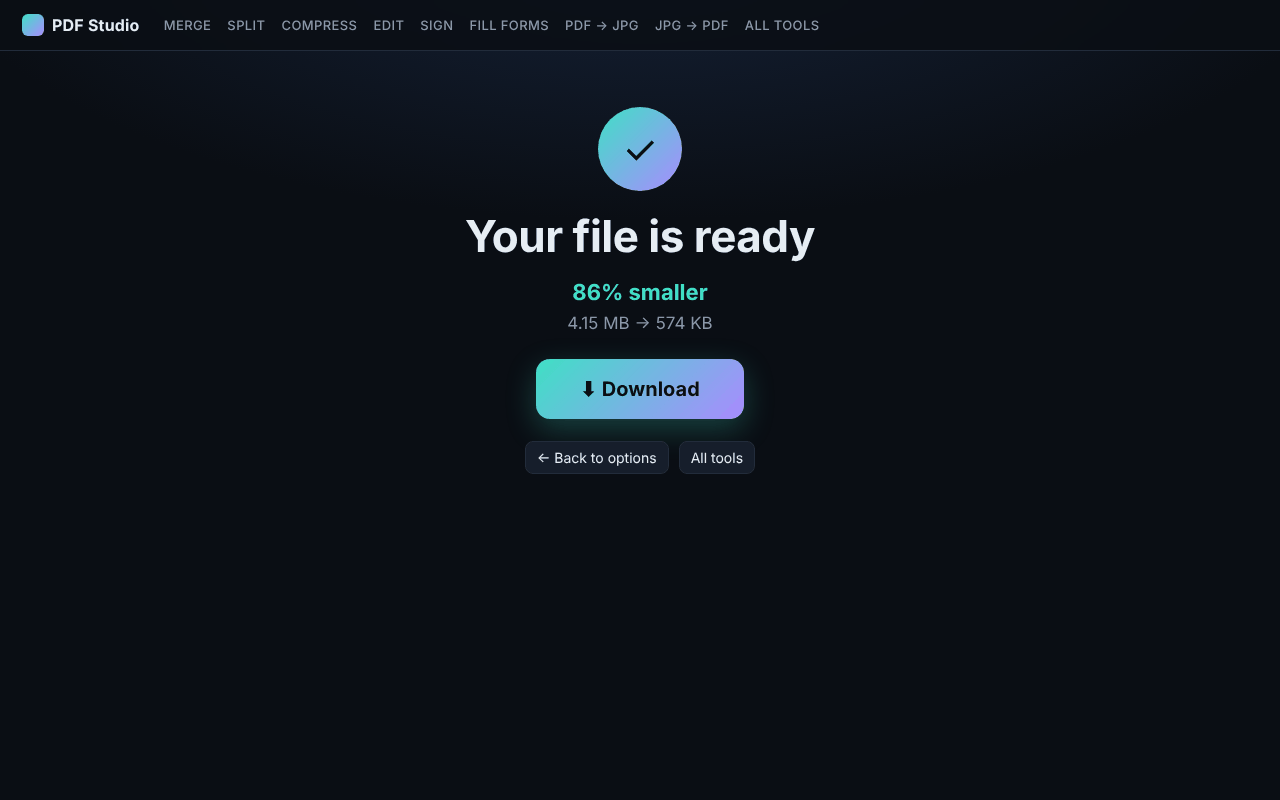
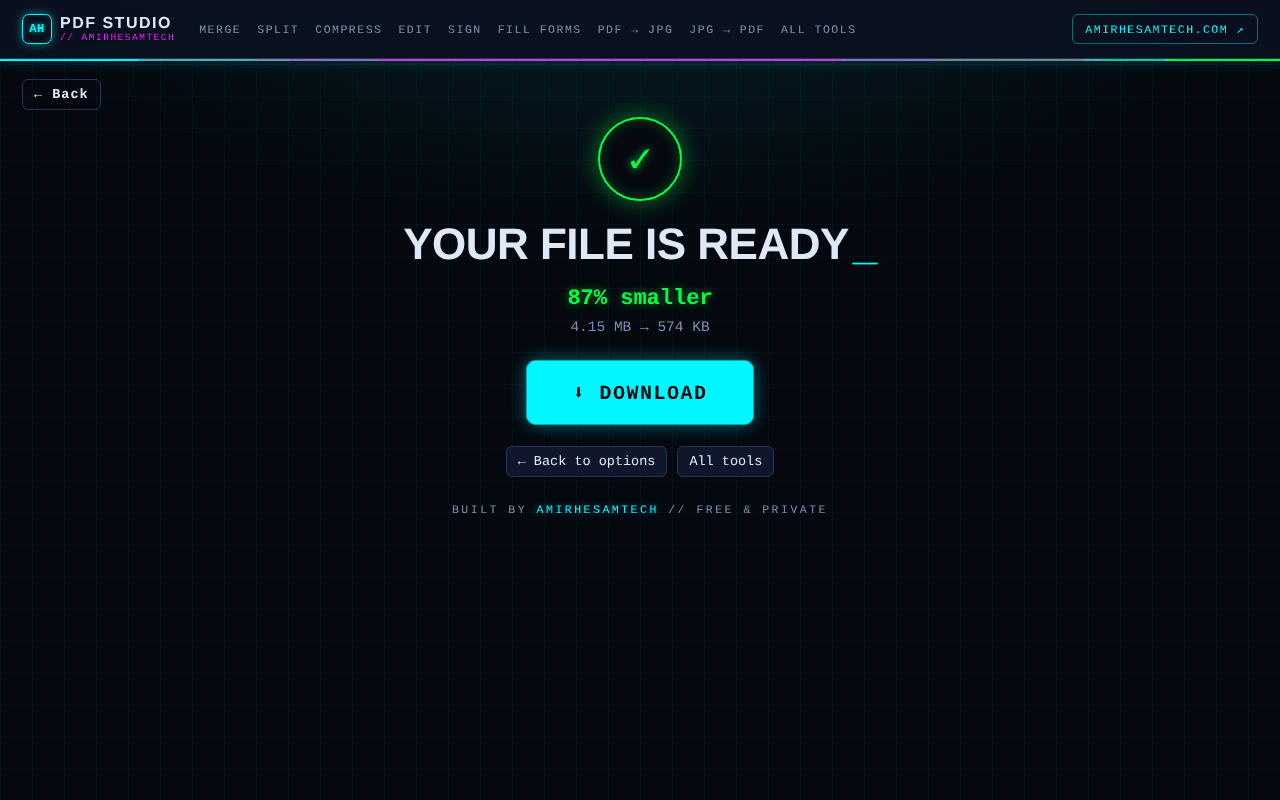
AmirHesamTech brand style + name across the app; fix watermark leak
- Brand layer: navy grid background, neon cyan/magenta/green/yellow,
  Syne + JetBrains Mono, AH badge, corner-accent cards, glow line,
  SYSTEM ONLINE footer with amirhesamtech.com links
- AmirHesamTech in the header, editor, result screen, tab title and in
  every saved PDF's Creator/Producer metadata
- Fix: a watermark from one tool no longer carries over to the next file
- CI: production job now verifies the live site serves the tested build,
  then runs 6 live smoke flows with the real CDN libraries
- 60 E2E tests, refreshed screenshots

Claude-Session: https://claude.ai/code/session_01KDLia8LsfaYMKWgCfNF6eZ

diff --git a/index.html b/index.html
@@ -3,16 +3,16 @@
 <head>
 <meta charset="utf-8">
 <meta name="viewport" content="width=device-width, initial-scale=1">
-<title>PDF Studio — Free Online PDF Editor</title>
+<title>PDF Studio by AmirHesamTech — Free Online PDF Tools</title>
 <meta name="description" content="Free online PDF editor. Fill forms, edit text, sign, highlight, draw, add notes, merge, split, compress and convert PDFs — 100% in your browser.">
 <link rel="preconnect" href="https://fonts.googleapis.com">
-<link href="https://fonts.googleapis.com/css2?family=Inter:wght@400;500;600;700&family=Dancing+Script:wght@600&display=swap" rel="stylesheet">
+<link href="https://fonts.googleapis.com/css2?family=Syne:wght@600;700;800&family=JetBrains+Mono:wght@400;500;700&family=Dancing+Script:wght@600&display=swap" rel="stylesheet">
 <script src="https://cdnjs.cloudflare.com/ajax/libs/pdf.js/3.11.174/pdf.min.js"></script>
 <script src="https://cdnjs.cloudflare.com/ajax/libs/pdf.js/3.11.174/pdf.worker.min.js"></script>
 <script src="https://cdnjs.cloudflare.com/ajax/libs/pdf-lib/1.17.1/pdf-lib.min.js"></script>
 <script src="https://cdnjs.cloudflare.com/ajax/libs/jszip/3.10.1/jszip.min.js"></script>
 <style>
-:root{--bg:#0a0e14;--panel:#111722;--panel2:#161e2b;--line:#222c3b;--text:#e6edf3;--mute:#8b98a9;--teal:#3fe0c5;--purple:#a98bff;--danger:#ff6b81}
+:root{--bg:#05080f;--panel:#0a1020;--panel2:#10162c;--line:#263451;--text:#dfe8f5;--mute:#7f94af;--teal:#00f7ff;--purple:#ff00ff;--green:#00ff41;--yellow:#fff200;--danger:#ff4d6d;--mono:'JetBrains Mono',Consolas,'Liberation Mono',monospace;--head:'Syne','JetBrains Mono',sans-serif}
 *{box-sizing:border-box}
 html,body{margin:0;height:100%;background:var(--bg);color:var(--text);font-family:Inter,system-ui,sans-serif;font-size:14px;overflow:hidden}
 button,select,input[type=text],input[type=number]{font:inherit;color:inherit;background:var(--panel2);border:1px solid var(--line);border-radius:8px;padding:7px 11px}
@@ -178,20 +178,97 @@ label.chk{display:flex;gap:6px;align-items:center;color:var(--mute)}
 #fWork .backbtn{position:static;margin:0 0 16px}
 #edBack{font-weight:600}
 @media (max-width:600px){.backbtn{left:12px;top:10px;padding:6px 10px}}
+
+/* ================= AmirHesamTech brand layer ================= */
+html,body{font-family:var(--mono);font-size:13.5px}
+body,.view,#viewer{background-color:var(--bg);background-image:linear-gradient(rgba(0,247,255,.035) 1px,transparent 1px),linear-gradient(90deg,rgba(0,247,255,.035) 1px,transparent 1px);background-size:32px 32px}
+.view{background-image:radial-gradient(900px 420px at 50% -8%,rgba(0,247,255,.10),transparent 70%),linear-gradient(rgba(0,247,255,.035) 1px,transparent 1px),linear-gradient(90deg,rgba(0,247,255,.035) 1px,transparent 1px);background-size:auto,32px 32px,32px 32px}
+button,select,input[type=text],input[type=number]{font-family:var(--mono);border-radius:6px;background:var(--panel2)}
+button:hover{border-color:var(--teal);color:var(--teal)}
+button.on{box-shadow:0 0 0 1px var(--teal) inset,0 0 14px rgba(0,247,255,.25)}
+button.primary,.big{background:var(--teal)!important;color:#05080f!important;border:1px solid var(--teal)!important;text-transform:uppercase;letter-spacing:1.5px;font-weight:700;box-shadow:0 0 18px rgba(0,247,255,.45),0 0 0 1px rgba(0,247,255,.6)}
+button.primary:hover,.big:hover{background:#05080f!important;color:var(--teal)!important;box-shadow:0 0 26px rgba(0,247,255,.6),inset 0 0 12px rgba(0,247,255,.25)}
+.big{border-radius:8px!important;font-family:var(--mono)!important}
+header,#tools,.topbar,#side,.wside{background:rgba(10,16,32,.92)}
+.logo{font-family:var(--head);letter-spacing:.5px}
+.logo i{width:30px;height:30px;border-radius:7px;background:#05080f;border:1.5px solid var(--teal);box-shadow:0 0 10px rgba(0,247,255,.5),inset 0 0 8px rgba(255,0,255,.25);display:inline-flex;align-items:center;justify-content:center;font-style:normal;flex:none}
+.logo i::after{content:'AH';font:700 12px var(--mono);color:var(--teal);text-shadow:0 0 6px var(--teal)}
+.topbar .logo span{display:flex;flex-direction:column;line-height:1.05;font-weight:800;font-size:16px;letter-spacing:1.5px}
+.topbar .logo small{font:500 9.5px var(--mono);color:var(--purple);letter-spacing:1.5px}
+.sitelink{margin-left:auto;font-size:11.5px;letter-spacing:1.5px;color:var(--teal)!important;border:1px solid rgba(0,247,255,.4);padding:7px 12px;border-radius:6px;white-space:nowrap}
+.sitelink:hover{background:rgba(0,247,255,.08);box-shadow:0 0 12px rgba(0,247,255,.3)}
+.topbar nav a{font-family:var(--mono);font-size:11.5px;letter-spacing:1.5px}
+.glowline{height:2px;background:linear-gradient(90deg,var(--teal),var(--purple),var(--green));box-shadow:0 0 12px rgba(0,247,255,.6)}
+.kicker{font-size:12px;letter-spacing:3px;color:var(--teal);margin-bottom:14px;text-shadow:0 0 8px rgba(0,247,255,.5)}
+.hero h1{font-family:var(--head);font-weight:800;letter-spacing:-.5px;text-transform:uppercase}
+.hero h1::after{content:'_';color:var(--teal);animation:blink 1s steps(1) infinite;margin-left:4px}
+@keyframes blink{50%{opacity:0}}
+.hero p{font-size:14.5px}
+.drop h1,.card h3,.wside h2,.tool h3,.donebox h1{font-family:var(--head)}
+.tool{position:relative;background:linear-gradient(180deg,rgba(16,22,44,.9),rgba(10,16,32,.95));border:1px solid var(--line);border-radius:10px;overflow:hidden}
+.tool::before,.tool::after{content:'';position:absolute;width:44px;height:44px;pointer-events:none;transition:.2s}
+.tool::before{left:-1px;top:-1px;border-left:2px solid var(--teal);border-top:2px solid var(--teal);border-top-left-radius:10px}
+.tool::after{right:-1px;bottom:-1px;border-right:2px solid var(--purple);border-bottom:2px solid var(--purple);border-bottom-right-radius:10px}
+.tool:hover{border-color:rgba(0,247,255,.45);box-shadow:0 0 0 1px rgba(0,247,255,.25),0 12px 34px rgba(0,0,0,.5),0 0 24px rgba(0,247,255,.12)}
+.tool:hover::before,.tool:hover::after{width:70px;height:70px}
+.tool .ic{background:transparent!important;border:1.5px solid var(--c);color:var(--c);box-shadow:0 0 12px color-mix(in srgb,var(--c) 45%,transparent),inset 0 0 10px color-mix(in srgb,var(--c) 25%,transparent);text-shadow:0 0 8px var(--c);border-radius:8px}
+.tool h3{font-size:17px;letter-spacing:.3px}
+.tool p{font-size:12.5px}
+.pickzone{border-color:rgba(0,247,255,.35);background:rgba(10,16,32,.7);border-radius:12px}
+.badge{color:var(--green);letter-spacing:1px;font-size:12px}
+.wside label.t{font-family:var(--mono);color:var(--teal);letter-spacing:2px;font-size:11px}
+.pcard{background:var(--panel2)}
+.pcard.sel{border-color:var(--teal);box-shadow:0 0 0 3px rgba(0,247,255,.18),0 0 18px rgba(0,247,255,.3)}
+.done-ic{background:#05080f;border:2px solid var(--green);color:var(--green);box-shadow:0 0 24px rgba(0,255,65,.45),inset 0 0 14px rgba(0,255,65,.25);text-shadow:0 0 10px var(--green)}
+.donebox #fInfo b{color:var(--green)!important;text-shadow:0 0 10px rgba(0,255,65,.5)}
+.foot{border-top:1px solid var(--line);display:flex;flex-direction:column;gap:10px;align-items:center;font-size:12px;letter-spacing:.5px}
+.foot .status{color:var(--green);letter-spacing:2px;display:flex;align-items:center;gap:8px}
+.foot .status b{color:var(--mute)}
+.foot .dot{width:9px;height:9px;border-radius:50%;background:var(--green);box-shadow:0 0 10px var(--green);animation:pulse 1.6s ease-in-out infinite}
+@keyframes pulse{50%{opacity:.35}}
+.foot .tag{color:var(--purple);letter-spacing:3px;font-weight:700;text-shadow:0 0 10px rgba(255,0,255,.5);font-size:11.5px;text-align:center}
+.foot .links{display:flex;gap:16px;flex-wrap:wrap;justify-content:center}
+.foot .links a{color:var(--teal);text-decoration:none}
+.foot .copy{color:var(--mute);font-size:11px}
+#toast{font-family:var(--mono);border-color:rgba(0,247,255,.4);box-shadow:0 0 18px rgba(0,247,255,.2)}
+#hint{background:var(--teal);font-family:var(--mono);box-shadow:0 0 18px rgba(0,247,255,.5)}
+.card{border-color:rgba(0,247,255,.25);box-shadow:0 0 30px rgba(0,247,255,.08)}
+.tcard b{font-family:var(--head)}
+.th.cur{box-shadow:0 0 14px rgba(0,247,255,.35)}
+.page{box-shadow:0 0 0 1px rgba(0,247,255,.12),0 8px 34px rgba(0,0,0,.6)}
+.sx .arr span{box-shadow:0 0 14px rgba(0,247,255,.7)}
+#tools button{font-size:12.5px}
+.backbtn{font-family:var(--mono);letter-spacing:1px}
+header .logo .wide{text-transform:uppercase;letter-spacing:1.5px;font-weight:800;flex-direction:column;line-height:1.05}
+header .logo .wide:not([style*=none]){display:inline-flex}
+header .logo small{font:500 9.5px var(--mono);color:var(--purple);letter-spacing:1.5px}
+.credit{margin-top:26px;font-size:11.5px;letter-spacing:2.5px;color:var(--mute)}
+.credit a{color:var(--teal);text-decoration:none;text-shadow:0 0 8px rgba(0,247,255,.5)}
+@media (max-width:760px){header .logo .wide{display:none!important}}
+@media (max-width:860px){.sitelink{display:none}}
+@media (max-width:600px){.topbar .logo span{font-size:14px}.kicker{font-size:10.5px;letter-spacing:2px}}
 </style>
 </head>
 <body>
 <div id="home" class="view">
-  <div class="topbar"><div class="logo homebtn"><i></i>PDF Studio</div><nav class="tnav"></nav></div>
+  <div class="topbar"><div class="logo homebtn"><i></i><span>PDF STUDIO<small>// AMIRHESAMTECH</small></span></div><nav class="tnav"></nav><a class="sitelink" href="https://amirhesamtech.com/">AMIRHESAMTECH.COM ↗</a></div>
+  <div class="glowline"></div>
   <section class="hero">
+    <div class="kicker">PDF / TOOLS / FREE / PRIVATE</div>
     <h1>Every PDF tool you need, free</h1>
     <p>Merge, split, compress, convert, edit, sign and fill PDFs in a few clicks. Everything runs in your browser. Your files never leave your device.</p>
   </section>
   <div class="tgrid" id="toolGrid"></div>
-  <div class="foot">No uploads · No sign-up · No watermarks · Made by <a href="https://amirhesamtech.com">AmirHesam Tech</a></div>
+  <div class="foot">
+    <div class="status"><span class="dot"></span>SYSTEM ONLINE <b>//</b> FILES NEVER LEAVE YOUR DEVICE</div>
+    <div class="tag">AUTOMATE // TEST // BUILD // DEPLOY // REPEAT</div>
+    <div class="links"><a href="https://amirhesamtech.com/guides/">Guides</a><a href="https://amirhesamtech.com/apps/">Free Apps</a><a href="https://amirhesamtech.com/games/">Games</a><a href="https://amirhesamtech.com/media-lab/">Media Lab</a><a href="https://www.tiktok.com/@techwithamirh3sam">TikTok</a><a href="https://github.com/amirh3sam/FreeonlinePDFeditor">GitHub</a></div>
+    <div class="copy">© 2026 AmirHesamTech · No uploads · No sign-up · No watermarks</div>
+  </div>
 </div>
 <div id="flow" class="view hide">
-  <div class="topbar"><div class="logo homebtn"><i></i>PDF Studio</div><nav class="tnav"></nav></div>
+  <div class="topbar"><div class="logo homebtn"><i></i><span>PDF STUDIO<small>// AMIRHESAMTECH</small></span></div><nav class="tnav"></nav><a class="sitelink" href="https://amirhesamtech.com/">AMIRHESAMTECH.COM ↗</a></div>
+  <div class="glowline"></div>
   <section id="fSelect">
     <button class="backbtn" id="bkSelect">← All tools</button>
     <div class="hero">
@@ -214,12 +291,13 @@ label.chk{display:flex;gap:6px;align-items:center;color:var(--mute)}
       <h1 id="fDoneTitle">Your file is ready</h1><p id="fInfo"></p>
       <div class="row"><button class="big" id="fDl">⬇ Download</button></div>
       <div class="row"><button id="fBack">← Back to options</button><button id="fEdit">✎ Open in editor</button><button id="fHome">All tools</button></div>
+      <div class="credit">BUILT BY <a href="https://amirhesamtech.com/">AMIRHESAMTECH</a> // FREE & PRIVATE</div>
     </div>
   </section>
 </div>
 <div id="app">
   <header>
-    <div class="logo"><i></i><span class="wide">PDF Studio</span></div>
+    <div class="logo"><i></i><span class="wide">PDF Studio<small>// AMIRHESAMTECH</small></span></div>
     <button id="edBack" title="Back to all tools">←<span class="wide">&nbsp;All tools</span></button>
     <button id="pagesBtn">☰</button>
     <span id="fname"></span>
@@ -374,7 +452,7 @@ async function loadPdf(file) {
   for (let i = 0; i < pdf.numPages; i++) { const pp = await proxy(di, i); rotCache.set(di + ':' + i, pp.rotate); const vp = pp.getViewport({ scale: 1 }); out.push({ id: uid(), doc: di, index: i, rot: 0, W: vp.width, H: vp.height, annots: [] }); }
   return out;
 }
-function resetDoc(name) { S.undo = []; S.redo = []; S.sel = null; S.pageNums = null; S.dirty = false; S.name = name.replace(/\.(pdf|png|jpe?g|webp|gif|heic)$/i, '') || 'document'; $('#fname').textContent = /\.pdf$/i.test(name) ? name : S.name + '.pdf'; }
+function resetDoc(name) { S.undo = []; S.redo = []; S.sel = null; S.pageNums = null; S.watermark = null; S.dirty = false; S.name = name.replace(/\.(pdf|png|jpe?g|webp|gif|heic)$/i, '') || 'document'; $('#fname').textContent = /\.pdf$/i.test(name) ? name : S.name + '.pdf'; }
 async function openFile(file) {
   if (!file) return;
   if (/^image\//.test(file.type)) { S.pages = []; resetDoc(file.name); await addImagePages([file]); return; }
@@ -779,7 +857,7 @@ $('#sigUse').onclick = async () => {
 };
 
 /* ---------- tools & props ---------- */
-const SW = ['#111111', '#e11d48', '#1d4ed8', '#16a34a', HL, '#3fe0c5', '#a98bff'];
+const SW = ['#111111', '#e11d48', '#1d4ed8', '#16a34a', HL, '#00b8c4', '#c026d3'];
 SW.forEach(c => { const b = document.createElement('button'); b.className = 'sw'; b.style.background = c; b.dataset.c = c; b.onclick = () => setColor(c); $('#swatches').append(b); });
 function setColor(c) {
   S.color = c; $('#colorPick').value = c; document.querySelectorAll('#swatches .sw').forEach(b => b.classList.toggle('on', b.dataset.c === c));
@@ -929,9 +1007,10 @@ async function fillForm(lib, doc, helv) {
   try { form.flatten({ updateFieldAppearances: false }); } catch (e) { console.warn('flatten', e); }
   return raster;
 }
+function brandPdf(doc) { try { doc.setCreator('PDF Studio by AmirHesamTech (amirhesamtech.com)'); doc.setProducer('PDF Studio by AmirHesamTech'); } catch (e) { } return doc; }
 async function buildPdf(opts = {}) {
   const { PDFDocument, StandardFonts, rgb, degrees, BlendMode, LineCapStyle, PDFHexString } = PDFLib;
-  const out = await PDFDocument.create();
+  const out = brandPdf(await PDFDocument.create());
   const fonts = {}; const getFont = async k => fonts[k] || (fonts[k] = await out.embedFont({ sans: StandardFonts.Helvetica, serif: StandardFonts.TimesRoman, mono: StandardFonts.Courier }[k]));
   const helv = await getFont('sans');
   const libs = new Map(), rasterFields = new Map(), imgCache = new Map();
@@ -1043,7 +1122,7 @@ async function renderPdfPages(bytes, dpi, cb) {
   pdf.destroy();
 }
 async function compressPdf(dpi, q) {
-  const src = await buildPdf(); const out = await PDFLib.PDFDocument.create();
+  const src = await buildPdf(); const out = brandPdf(await PDFLib.PDFDocument.create());
   await renderPdfPages(src, dpi, async (c, vp1) => { const im = await out.embedJpg(dataUrlBytes(c.toDataURL('image/jpeg', q))); const pg = out.addPage([vp1.width, vp1.height]); pg.drawImage(im, { x: 0, y: 0, width: vp1.width, height: vp1.height }); });
   return { before: src.byteLength, bytes: await out.save() };
 }
@@ -1094,7 +1173,7 @@ function openTool(view) {
   if (view === 'extract') { const go = e => busy($('#doExtract'), 'Building…', async () => { const set = parseRanges($('#rangeIn').value, S.pages.length); if (!set) return toast('Enter pages like 1-3, 5'); if (await saveBytes(S.name + '-pages.pdf', await buildPdf({ only: set }))) { toast(`Saved ${set.size} page${set.size > 1 ? 's' : ''} ✓`); done(); } }); $('#doExtract').onclick = go; $('#rangeIn').onkeydown = e => { e.stopPropagation(); if (e.key === 'Enter') go(); }; setTimeout(() => $('#rangeIn').focus(), 50); }
   if (view === 'split') $('#doSplit').onclick = e => busy(e.currentTarget, 'Splitting…', async () => {
     const full = await buildPdf(); const lib = await PDFLib.PDFDocument.load(full); const zip = new JSZip(); const n = lib.getPageCount(); const pad = String(n).length;
-    for (let i = 0; i < n; i++) { const d = await PDFLib.PDFDocument.create(); const [pg] = await d.copyPages(lib, [i]); d.addPage(pg); zip.file(`${S.name}-page-${String(i + 1).padStart(pad, '0')}.pdf`, await d.save()); }
+    for (let i = 0; i < n; i++) { const d = brandPdf(await PDFLib.PDFDocument.create()); const [pg] = await d.copyPages(lib, [i]); d.addPage(pg); zip.file(`${S.name}-page-${String(i + 1).padStart(pad, '0')}.pdf`, await d.save()); }
     if (await saveBytes(S.name + '-split.zip', await zip.generateAsync({ type: 'blob' }))) { toast(`Split into ${n} PDFs ✓`); done(); }
   });
   if (view === 'jpg') $('#doJpg').onclick = e => busy(e.currentTarget, 'Rendering…', async () => {
@@ -1145,32 +1224,32 @@ async function drawWatermarkPdf(out, page, p, conv, R, helvB) {
 
 /* ---------- home + tool pages (router) ---------- */
 const TK = [
-  { id: 'merge', t: 'Merge PDF', d: 'Combine PDFs in the order you want, in one file.', ic: '⊕', c: '#3fe0c5', accept: 'pdf', multi: true, btn: 'Select PDF files', go: 'Merge PDF' },
-  { id: 'split', t: 'Split PDF', d: 'Pull out pages, split by ranges, or turn every page into its own PDF.', ic: '✂', c: '#7dd3fc', accept: 'pdf', btn: 'Select PDF file', go: 'Split PDF' },
-  { id: 'compress', t: 'Compress PDF', d: 'Make a PDF smaller while keeping it readable.', ic: '🗜', c: '#86efac', accept: 'pdf', btn: 'Select PDF file', go: 'Compress PDF' },
-  { id: 'edit', t: 'Edit PDF', d: 'Change existing text, add text, images, shapes, arrows and notes.', ic: '✎', c: '#a98bff', accept: 'pdf', editor: true, btn: 'Select PDF file' },
-  { id: 'sign', t: 'Sign PDF', d: 'Draw or type your signature and place it anywhere.', ic: '✍', c: '#f0abfc', accept: 'pdf', editor: true, btn: 'Select PDF file' },
-  { id: 'fill-forms', t: 'Fill PDF forms', d: 'Type into form fields, tick boxes and pick options.', ic: '☑', c: '#fcd34d', accept: 'pdf', editor: true, btn: 'Select PDF file' },
-  { id: 'organize', t: 'Organize PDF', d: 'Reorder, delete, rotate and add pages.', ic: '▦', c: '#fda4af', accept: 'pdf', btn: 'Select PDF file', go: 'Save PDF' },
-  { id: 'rotate', t: 'Rotate PDF', d: 'Rotate one page or all of them at once.', ic: '⟳', c: '#93c5fd', accept: 'pdf', btn: 'Select PDF file', go: 'Rotate PDF' },
-  { id: 'page-numbers', t: 'Add page numbers', d: 'Number your pages, with the position and format you want.', ic: '#', c: '#c4b5fd', accept: 'pdf', btn: 'Select PDF file', go: 'Add page numbers' },
-  { id: 'watermark', t: 'Add watermark', d: 'Stamp text like DRAFT or CONFIDENTIAL over your pages.', ic: '💧', c: '#67e8f9', accept: 'pdf', btn: 'Select PDF file', go: 'Add watermark' },
-  { id: 'pdf-to-jpg', t: 'PDF to JPG', d: 'Turn each page into a high-quality JPG image.', ic: '🖼', c: '#fdba74', accept: 'pdf', btn: 'Select PDF file', go: 'Convert to JPG' },
-  { id: 'jpg-to-pdf', t: 'JPG to PDF', d: 'Turn photos and images into one PDF.', ic: '📷', c: '#bef264', accept: 'img', multi: true, btn: 'Select images', go: 'Convert to PDF' },
+  { id: 'merge', t: 'Merge PDF', d: 'Combine PDFs in the order you want, in one file.', ic: '⊕', c: '#00f7ff', accept: 'pdf', multi: true, btn: 'Select PDF files', go: 'Merge PDF' },
+  { id: 'split', t: 'Split PDF', d: 'Pull out pages, split by ranges, or turn every page into its own PDF.', ic: '✂', c: '#ff00ff', accept: 'pdf', btn: 'Select PDF file', go: 'Split PDF' },
+  { id: 'compress', t: 'Compress PDF', d: 'Make a PDF smaller while keeping it readable.', ic: '🗜', c: '#00ff41', accept: 'pdf', btn: 'Select PDF file', go: 'Compress PDF' },
+  { id: 'edit', t: 'Edit PDF', d: 'Change existing text, add text, images, shapes, arrows and notes.', ic: '✎', c: '#fff200', accept: 'pdf', editor: true, btn: 'Select PDF file' },
+  { id: 'sign', t: 'Sign PDF', d: 'Draw or type your signature and place it anywhere.', ic: '✍', c: '#00f7ff', accept: 'pdf', editor: true, btn: 'Select PDF file' },
+  { id: 'fill-forms', t: 'Fill PDF forms', d: 'Type into form fields, tick boxes and pick options.', ic: '☑', c: '#ff00ff', accept: 'pdf', editor: true, btn: 'Select PDF file' },
+  { id: 'organize', t: 'Organize PDF', d: 'Reorder, delete, rotate and add pages.', ic: '▦', c: '#00ff41', accept: 'pdf', btn: 'Select PDF file', go: 'Save PDF' },
+  { id: 'rotate', t: 'Rotate PDF', d: 'Rotate one page or all of them at once.', ic: '⟳', c: '#fff200', accept: 'pdf', btn: 'Select PDF file', go: 'Rotate PDF' },
+  { id: 'page-numbers', t: 'Add page numbers', d: 'Number your pages, with the position and format you want.', ic: '#', c: '#00f7ff', accept: 'pdf', btn: 'Select PDF file', go: 'Add page numbers' },
+  { id: 'watermark', t: 'Add watermark', d: 'Stamp text like DRAFT or CONFIDENTIAL over your pages.', ic: '💧', c: '#ff00ff', accept: 'pdf', btn: 'Select PDF file', go: 'Add watermark' },
+  { id: 'pdf-to-jpg', t: 'PDF to JPG', d: 'Turn each page into a high-quality JPG image.', ic: '🖼', c: '#00ff41', accept: 'pdf', btn: 'Select PDF file', go: 'Convert to JPG' },
+  { id: 'jpg-to-pdf', t: 'JPG to PDF', d: 'Turn photos and images into one PDF.', ic: '📷', c: '#fff200', accept: 'img', multi: true, btn: 'Select images', go: 'Convert to PDF' },
 ];
 const F = { tool: null, stage: 'select', files: [], images: [], sel: new Set(), mode: 'extract', opt: {}, result: null };
 let VIEW = 'home';
 function navHtml() { const L = { merge: 'Merge', split: 'Split', compress: 'Compress', edit: 'Edit', sign: 'Sign', 'fill-forms': 'Fill forms', 'pdf-to-jpg': 'PDF → JPG', 'jpg-to-pdf': 'JPG → PDF' }; return Object.entries(L).map(([id, t]) => `<a href="#${id}">${t}</a>`).join('') + '<a href="#">All tools</a>'; }
 document.querySelectorAll('.tnav').forEach(n => n.innerHTML = navHtml());
-$('#toolGrid').innerHTML = TK.map(t => `<a class="tool" href="#${t.id}"><div class="ic" style="background:${t.c}">${t.ic}</div><h3>${t.t}</h3><p>${t.d}</p></a>`).join('');
+$('#toolGrid').innerHTML = TK.map(t => `<a class="tool" href="#${t.id}"><div class="ic" style="--c:${t.c}">${t.ic}</div><h3>${t.t}</h3><p>${t.d}</p></a>`).join('');
 document.querySelectorAll('.homebtn').forEach(b => b.onclick = () => { location.hash = ''; route(); });
 const hl = document.querySelector('header .logo'); hl.classList.add('homebtn'); hl.title = 'All tools'; hl.onclick = () => { location.hash = ''; route(); };
 function showView(v) { VIEW = v; $('#home').classList.toggle('hide', v !== 'home'); $('#flow').classList.toggle('hide', v !== 'flow'); }
 function showStage(st) { F.stage = st; $('#fSelect').classList.toggle('hide', st !== 'select'); $('#fWork').classList.toggle('hide', st !== 'work'); $('#fDone').classList.toggle('hide', st !== 'done'); $('#flow').scrollTop = 0; }
 function route() {
   const id = location.hash.slice(1); const t = TK.find(x => x.id === id);
-  if (!t) { showView('home'); document.title = 'PDF Studio — Free Online PDF Tools'; return; }
-  document.title = t.t + ' — Free & private | PDF Studio';
+  if (!t) { showView('home'); document.title = 'PDF Studio by AmirHesamTech — Free Online PDF Tools'; return; }
+  document.title = t.t + ' — Free & private | PDF Studio by AmirHesamTech';
   if (t.editor && S.pages.length && F.tool === t.id && F.stage === 'editor') { showView('editor'); return; }
   showView('flow');
   if (F.tool !== t.id) { F.tool = t.id; F.files = []; F.images = []; F.sel = new Set(); F.result = null; F.mode = 'extract'; showStage('select'); }
@@ -1339,7 +1418,7 @@ function layoutImages() {
 async function zipOf(entries) { const zip = new JSZip(); entries.forEach(([n, d]) => zip.file(n, d)); return zip.generateAsync({ type: 'blob' }); }
 async function splitBy(groups) {
   const full = await buildPdf(); const lib = await PDFLib.PDFDocument.load(full); const out = [];
-  for (const [label, idx] of groups) { const d = await PDFLib.PDFDocument.create(); (await d.copyPages(lib, idx)).forEach(pg => d.addPage(pg)); out.push([`${S.name}-${label}.pdf`, await d.save()]); }
+  for (const [label, idx] of groups) { const d = brandPdf(await PDFLib.PDFDocument.create()); (await d.copyPages(lib, idx)).forEach(pg => d.addPage(pg)); out.push([`${S.name}-${label}.pdf`, await d.save()]); }
   return out;
 }
 $('#fGo').onclick = () => busy($('#fGo'), 'Working…', async () => {

diff --git a/tests/e2e.test.js b/tests/e2e.test.js
@@ -49,6 +49,15 @@ describe('Home & navigation', () => {
     await pg.click('#toolGrid a[href="#fill-forms"]'); await pg.waitForFunction(() => VIEW === 'editor');
     assert.equal(await pg.evaluate(() => S.pages[0].annots[0].text), 'kept', 'edits kept after going back');
   });
+  t('AmirHesamTech branding: header, result screen, tab title and inside every saved PDF', async pg => {
+    await pg.goto(H.APP); assert.match(await pg.title(), /AmirHesamTech/);
+    assert.match(await pg.textContent('#home .topbar'), /AMIRHESAMTECH/); assert.match(await pg.textContent('#home .foot'), /AmirHesamTech/);
+    await H.openWork(pg, 'split', [fx.three]); await H.seg(pg, 'mode', 'every'); await H.go(pg);
+    assert.match(await pg.textContent('#fDone .credit'), /AMIRHESAMTECH/);
+    for (const b of Object.values(await H.unzip((await H.grab(pg)).bytes))) { const r = await H.inspect(b); assert.match(r.producer, /AmirHesamTech/); assert.match(r.creator, /amirhesamtech\.com/); }
+    await H.openEditor(pg, fx.single); assert.match(await pg.textContent('header .logo'), /AMIRHESAMTECH/);
+    assert.match((await H.inspect((await H.grab(pg, '#saveBtn')).bytes)).producer, /AmirHesamTech/);
+  });
   t('wrong file type is rejected with a message', async pg => {
     await H.openTool(pg, 'merge', [fx.png]); assert.match(await H.toastText(pg), /PDF/);
     await H.openTool(pg, 'jpg-to-pdf', [fx.single]); assert.match(await H.toastText(pg), /image/i);
@@ -183,6 +192,11 @@ describe('Watermark', () => {
   t('non-Latin watermark is drawn as an image', async pg => {
     await H.openWork(pg, 'watermark', [fx.single]); await pg.fill('#wmT', 'محرمانه'); await H.go(pg);
     const r = await H.inspect((await H.grab(pg)).bytes); assert.ok(r.pages[0].images >= 1);
+  });
+  t('watermark does not leak into the next file (regression)', async pg => {
+    await H.openWork(pg, 'watermark', [fx.single]); await pg.fill('#wmT', 'LEAK'); await H.go(pg);
+    await H.openEditor(pg, fx.two); assert.equal(await pg.evaluate(() => S.watermark), null);
+    const r = await H.inspect((await H.grab(pg, '#saveBtn')).bytes); assert.doesNotMatch(r.text, /LEAK/);
   });
   t('empty text shows a message', async pg => {
     await H.openWork(pg, 'watermark', [fx.single]); await pg.fill('#wmT', ' '); await pg.click('#fGo'); assert.match(await H.toastText(pg), /watermark text/);

diff --git a/tests/helpers.js b/tests/helpers.js
@@ -29,6 +29,7 @@ async function newPage(viewport = { width: 1300, height: 900 }) {
   const pg = await ctx.newPage();
   pg.errors = [];
   pg.on('pageerror', e => pg.errors.push(e.message));
+  if (process.env.LIVE_CDN) return pg; // production smoke: load the real libraries from cdnjs / Google Fonts
   await pg.route('https://cdnjs.cloudflare.com/**', r => {
     const f = CDN[r.request().url().split('/').pop()];
     return f ? r.fulfill({ body: fs.readFileSync(f), contentType: 'text/javascript' }) : r.abort();
@@ -115,8 +116,9 @@ async function inspect(bytes) {
     const annots = await p.getAnnotations();
     pages.push({ rotate: p.rotate, w: Math.round(vp.width), h: Math.round(vp.height), text, images, annots });
   }
+  const meta = await doc.getMetadata();
   await doc.destroy();
-  return { count: pages.length, pages, text: pages.map(p => p.text).join(' | ') };
+  return { count: pages.length, pages, text: pages.map(p => p.text).join(' | '), producer: meta.info.Producer, creator: meta.info.Creator };
 }
 async function unzip(bytes) { const z = await JSZip.loadAsync(bytes); const out = {}; for (const n of Object.keys(z.files).sort()) out[n] = await z.files[n].async('nodebuffer'); return out; }
 function jpegSize(buf) {

diff --git a/README.md b/README.md
@@ -41,7 +41,7 @@ Keyboard shortcuts in the editor: `V` select · `X` edit text · `T` add text ·
 
 ## Tests
 
-57 automated end-to-end tests ([Playwright](https://playwright.dev) + `node:test`) cover every tool and option. They don't just click through the app: each test opens the downloaded file and checks what's inside, including page count, rotation, extracted text, embedded images, zip contents and JPG pixel sizes. They run on every push via GitHub Actions: first on the new code, then again on the live Vercel site once the deploy is serving that exact commit.
+60 automated end-to-end tests ([Playwright](https://playwright.dev) + `node:test`) cover every tool and option. They don't just click through the app: each test opens the downloaded file and checks what's inside, including page count, rotation, extracted text, embedded images, zip contents and JPG pixel sizes. They run on every push via GitHub Actions: first on the new code, then again on the live Vercel site once the deploy is serving that exact commit.
 
 ```bash
 cd tests && npm install && npx playwright install chromium && npm test
